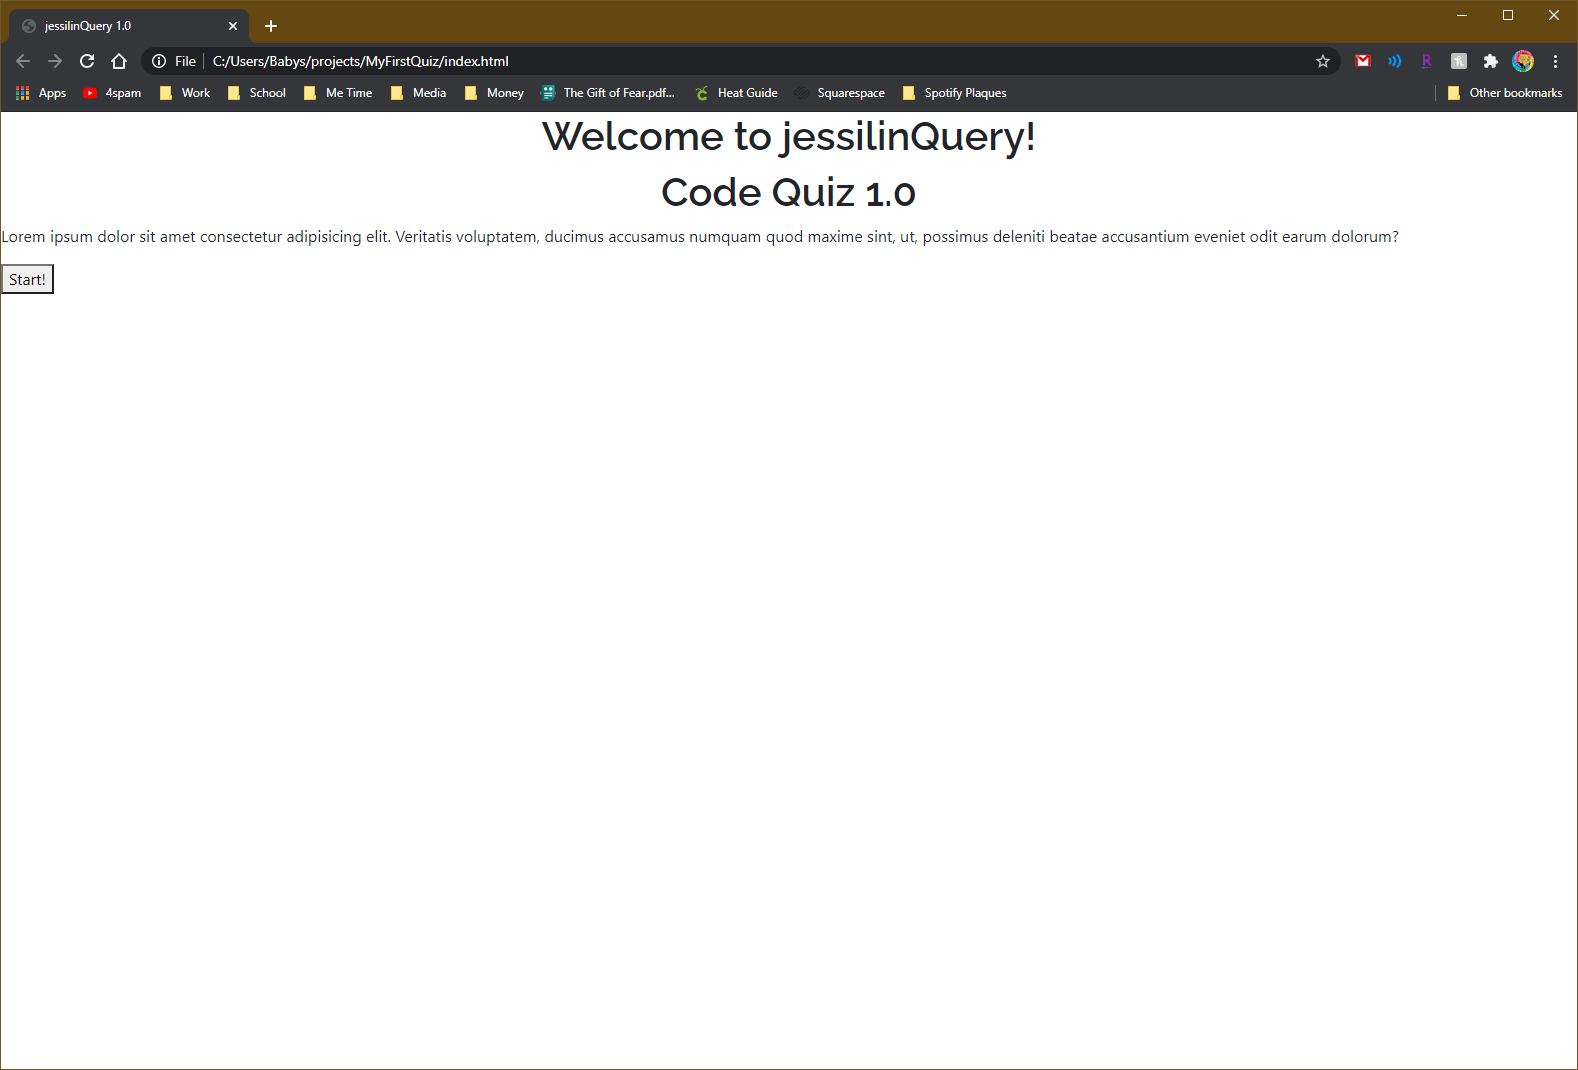
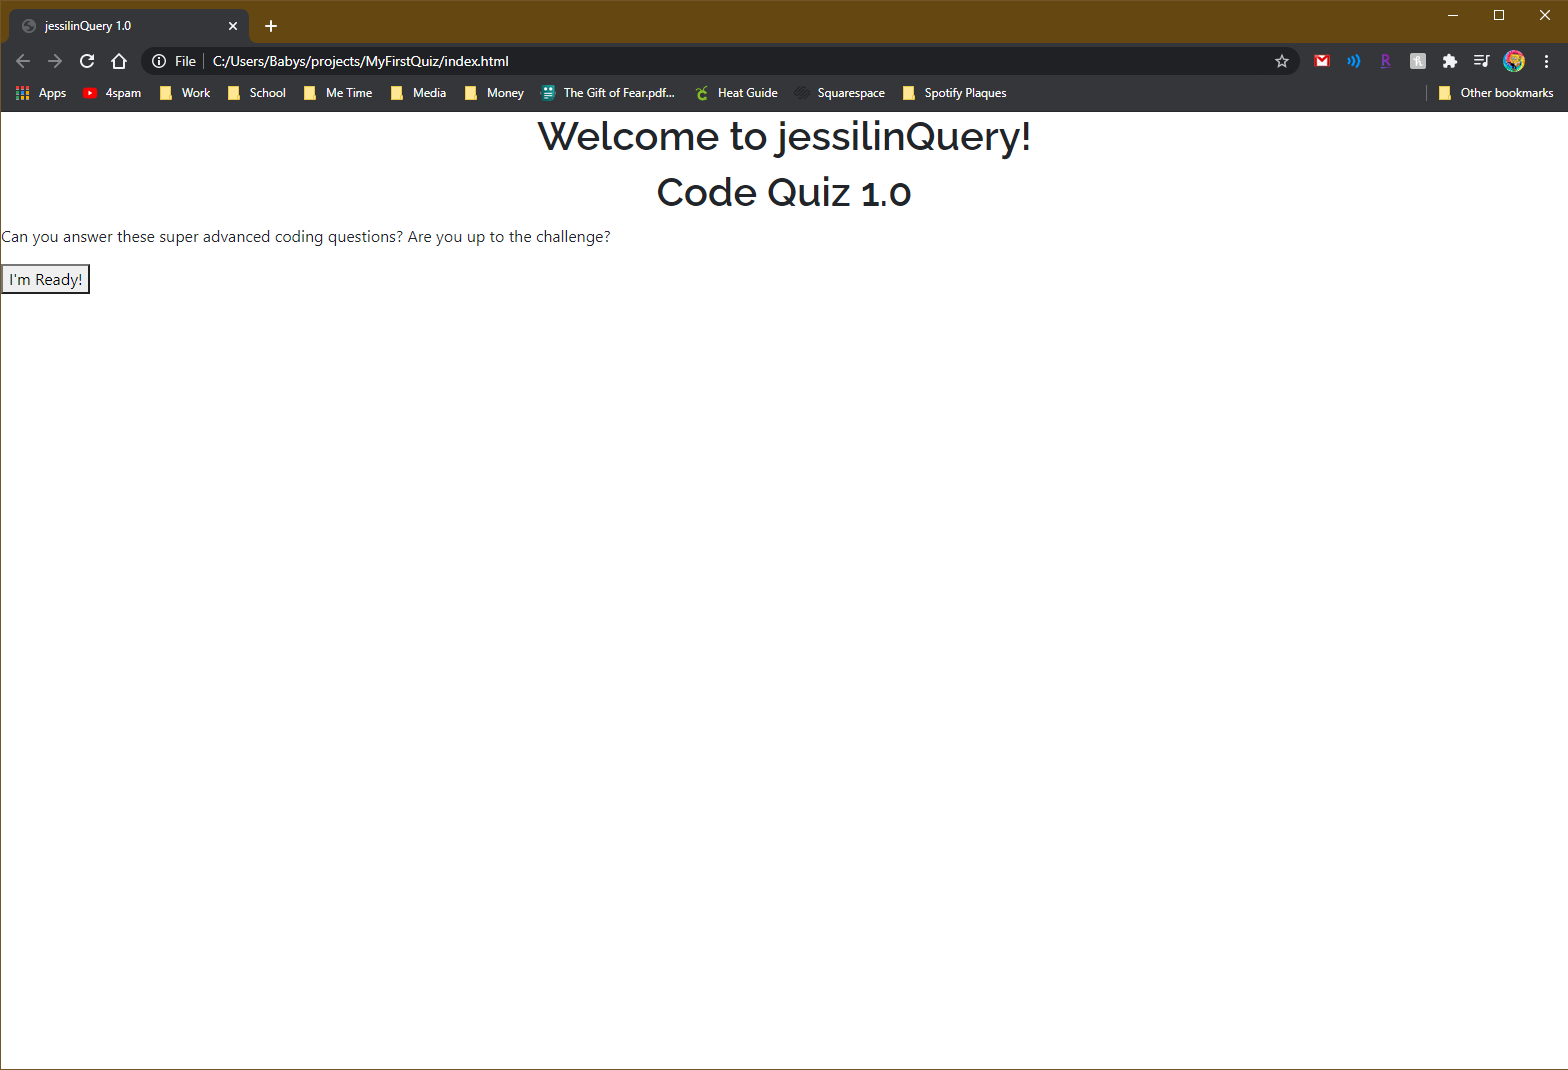
updating filler text and screenshots

Changed region(s): [[0.0, 0.0308, 0.875, 0.2776], [0.8125, 0.0308, 1.0, 0.0925], [0.0312, 0.0, 0.0938, 0.0308]]

diff --git a/index.html b/index.html
@@ -28,10 +28,9 @@
     <!-- this is the beginning of the quiz -->
     <div id="start-quiz">
         <h1 class="heading">Code Quiz 1.0</h1>
-        <p> Lorem ipsum dolor sit amet consectetur adipisicing elit. Veritatis voluptatem, ducimus accusamus numquam
-            quod maxime sint, ut, possimus deleniti beatae accusantium eveniet odit earum dolorum?
+        <p> Can you answer these super advanced coding questions? Are you up to the challenge?
         </p>
-        <button id="start-btn">Start!</button>
+        <button id="start-btn">I'm Ready!</button>
     </div>
 
     <!-- the questions and answer options go here -->
